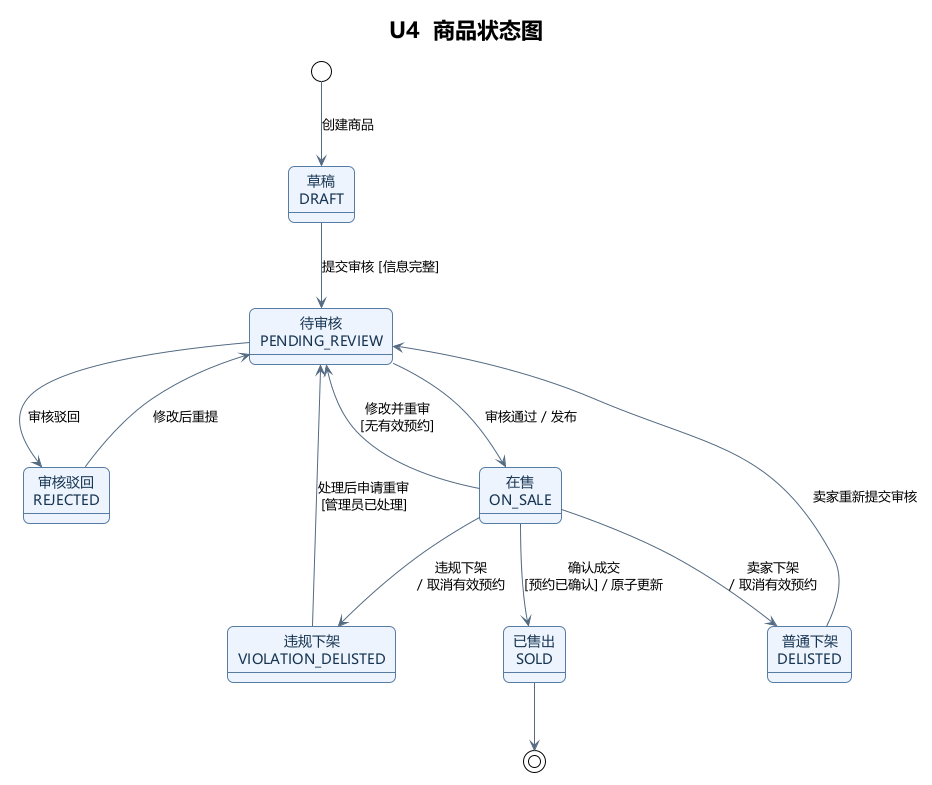
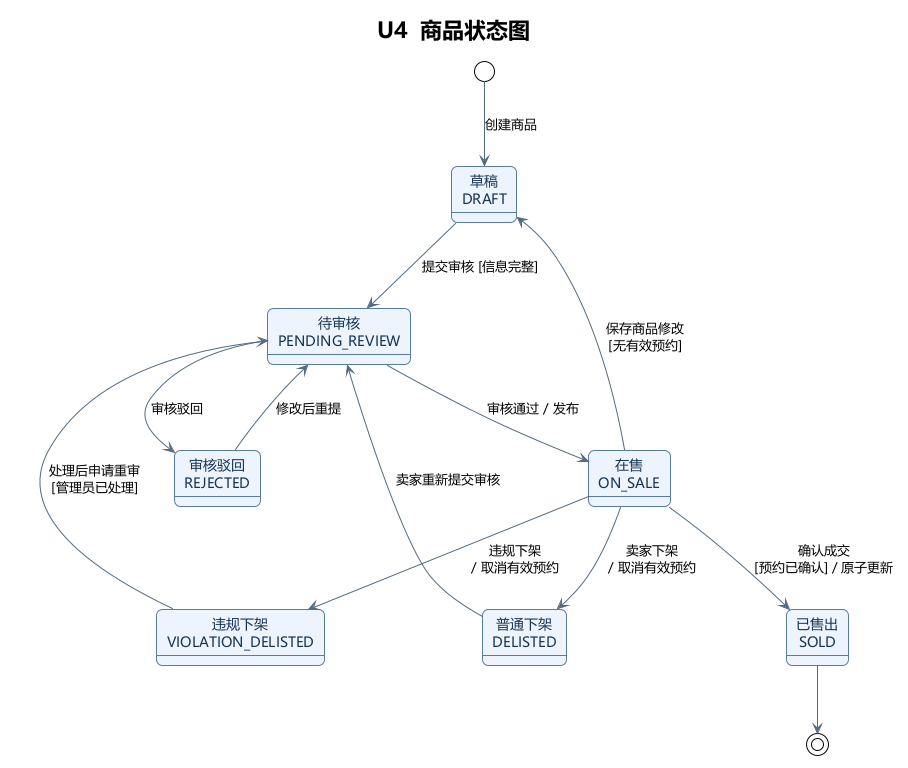
docs: sync final lab3 UML and README

diff --git a/campus-market/README.md b/campus-market/README.md
@@ -44,7 +44,7 @@ node --check .\app\static\js\site.js
 node .\qa_tests\frontend_vm_v042.cjs
 ```
 
-Node.js 仅用于可选的前端专项测试，网页正常使用不依赖 Node.js。严格非 GUI Python 代码行数由脚本报告，排除了测试、GUI、注释和 docstring；最终打包前为 1690 行（请以再次运行的输出为准）。
+Node.js 仅用于可选的前端专项测试，网页正常使用不依赖 Node.js。严格非 GUI Python 代码行数由脚本报告，排除了测试、GUI、注释和 docstring；最终打包前为 1693 行。
 
 ## 代码结构
 
@@ -61,7 +61,3 @@ Node.js 仅用于可选的前端专项测试，网页正常使用不依赖 Node.
 ## 与实验二设计的关系
 
 实验二提交的 U1～U7 原图保存在历史 Git 提交中。实验三根据确认后的 REQ-005 更新了 **提交副本中的 U4**：在售商品的六字段实际修改先转 `DRAFT`，卖家另行提交审核进入 `PENDING_REVIEW`。更新后的 `.puml` 是权威可编辑源，`.png` 为同等状态和连线语义的本地 Graphviz 排版图。其他 U1～U3/U5～U7 直接继承实验二原版。
-
-## 提交说明
-
-课程 ZIP 另有 `UML/` 和由学生本人独立撰写的 `实验报告.pdf`。本目录仅存源码、运行依赖、测试和必要的实现说明，不包含 Git 历史、虚拟环境、QA 截图/trace、SQLite 测试数据库等中间文件。
